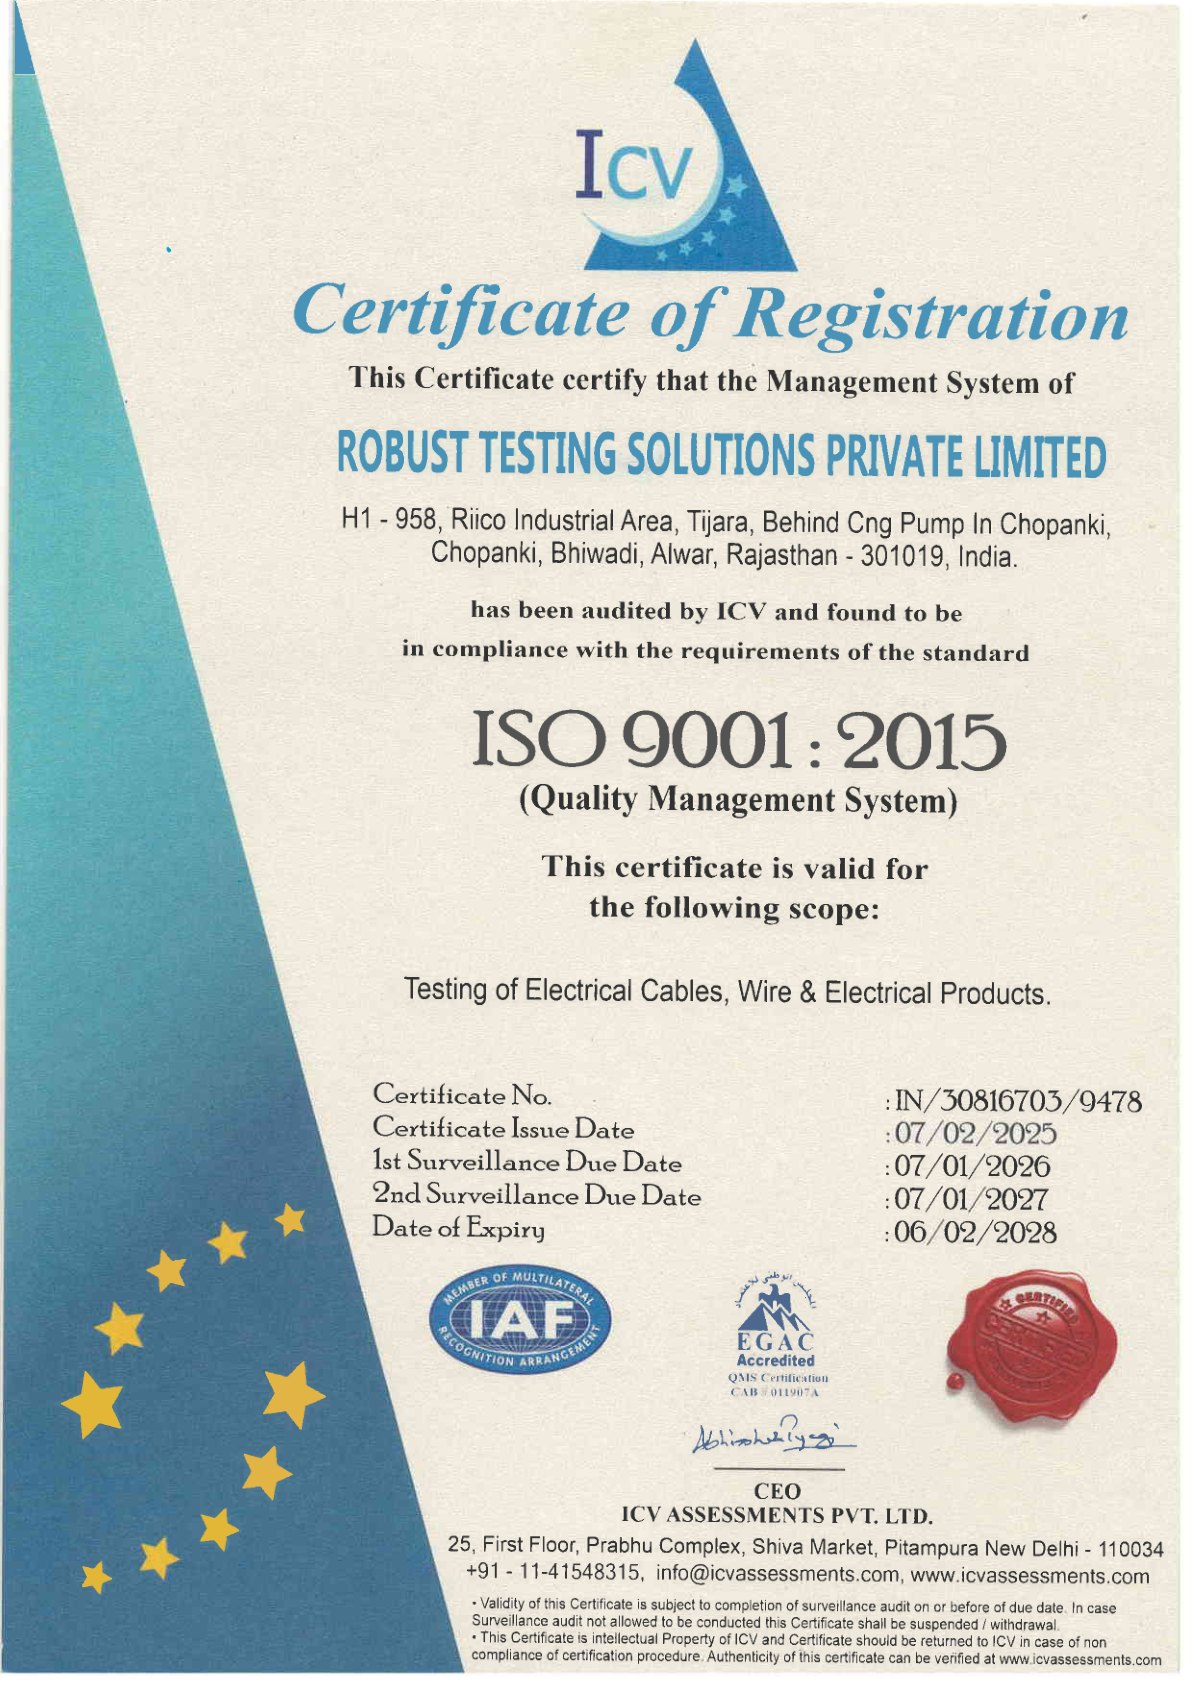
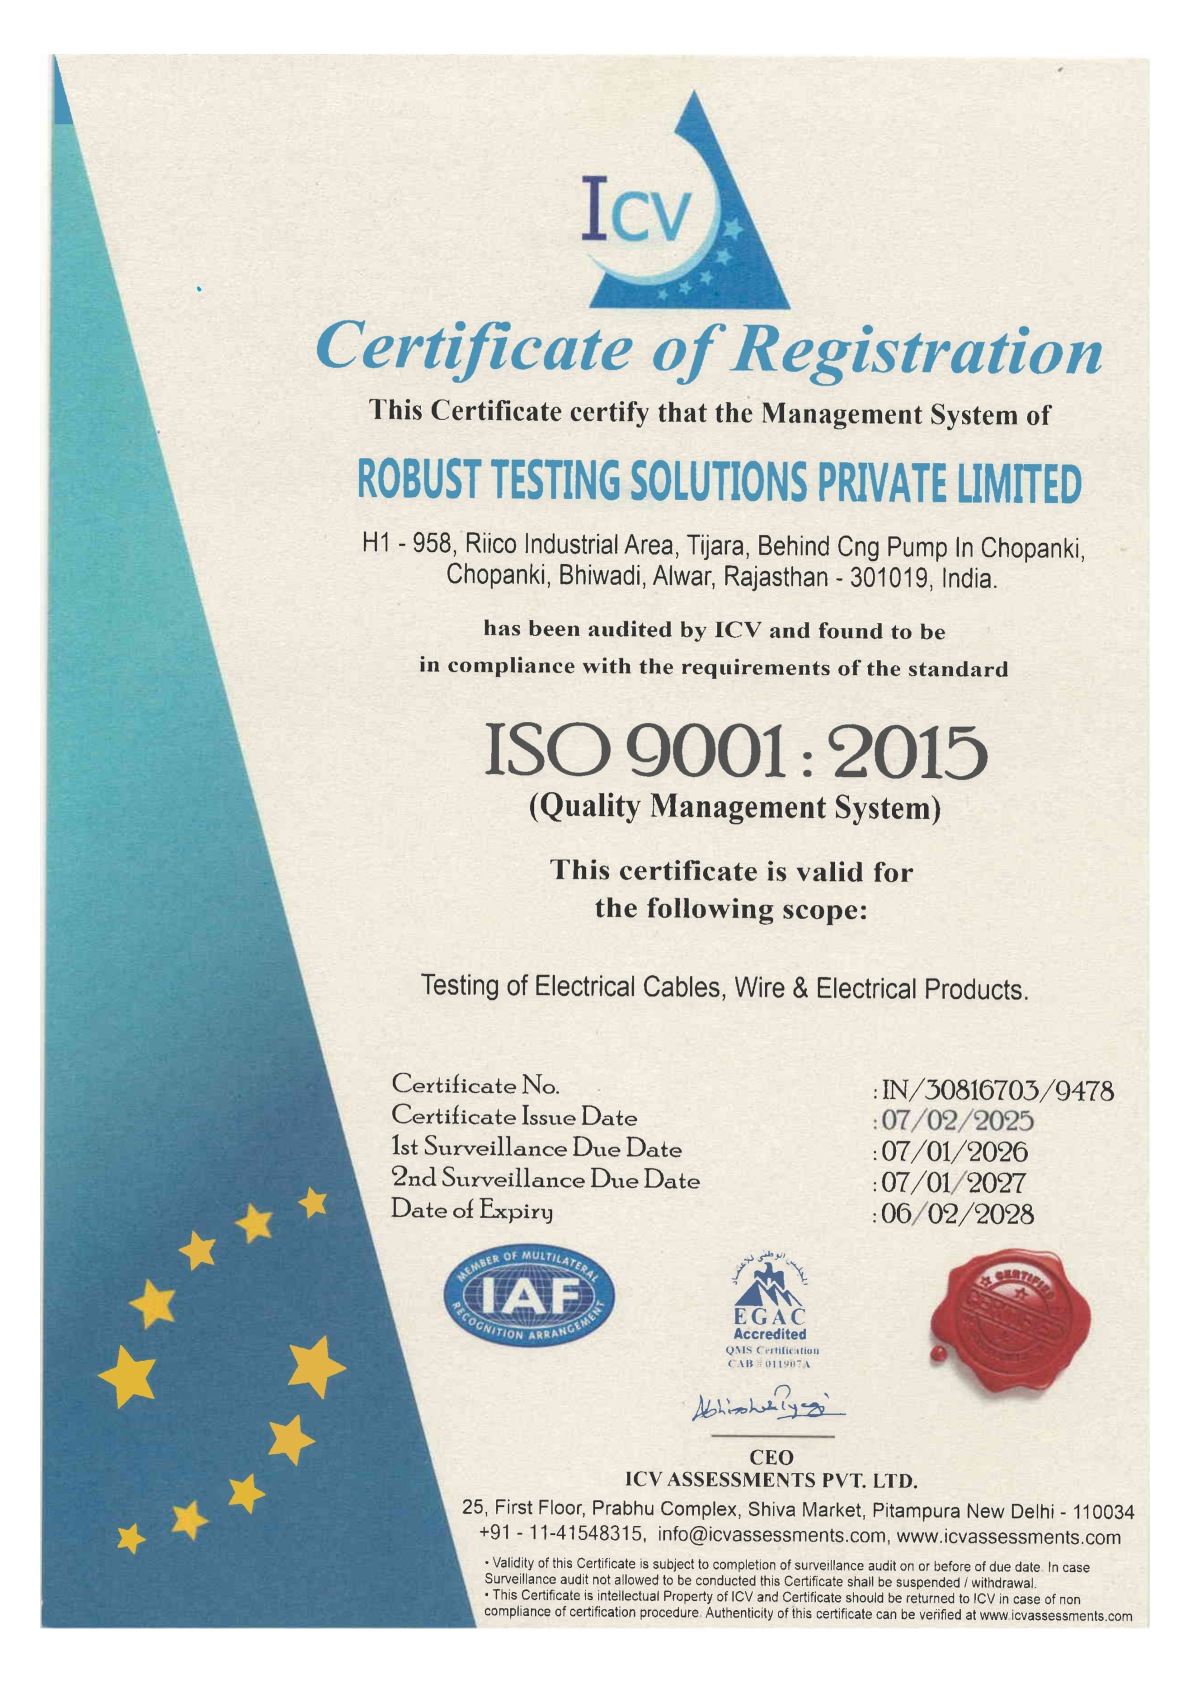
fix(certs): upright ISO and BIS portrait previews

Changed region(s): [[0.0, 0.0, 0.995, 1.0]]

diff --git a/css/styles.css b/css/styles.css
@@ -407,8 +407,8 @@ body.nav-open { overflow: hidden; }
 .cert:hover, .cert:focus-visible { transform: translateY(-4px); box-shadow: var(--shadow-md); border-color: var(--gold); }
 .cert__frame { aspect-ratio: 3/4; border-radius: 10px; margin-bottom: 0.7rem; position: relative; overflow: hidden; background: linear-gradient(180deg, #fbfdff, #eef4fb); border: 1px solid var(--line-soft); display: grid; place-items: center; color: var(--muted); font-size: 0.8rem; padding: 0.85rem; font-family: var(--fx-display); font-weight: 700; }
 .cert__frame::after { content: ""; position: absolute; inset: 0.5rem; border: 1px solid rgba(201,162,100,0.3); border-radius: 6px; pointer-events: none; }
-.cert__frame--img { background: #fff; }
-.cert__frame--img img { max-width: 82%; max-height: 82%; object-fit: contain; }
+.cert__frame--img { background: #fff; overflow: hidden; }
+.cert__frame--img img { max-width: 88%; max-height: 88%; width: auto; height: auto; object-fit: contain; object-position: center; }
 .cert .caption { font-weight: 700; font-size: 0.85rem; color: var(--navy); font-family: var(--fx-display); }
 
 /* Homepage certificates — GTL-style document row, Robust credentials only */
@@ -417,13 +417,13 @@ body.nav-open { overflow: hidden; }
 .certs__title { font-size: clamp(2rem, 4.2vw, 2.85rem); margin: 0 0 2.2rem; max-width: none; }
 .certs-row { display: flex; align-items: center; justify-content: center; gap: 0.35rem; width: 100%; }
 .certs-viewport { overflow: hidden; flex: 1 1 auto; width: 100%; min-width: 0; }
-.certs-track { display: flex; gap: 1.4rem; justify-content: flex-start; transition: transform 0.4s var(--ease); will-change: transform; }
-.certs-card { flex: 0 0 min(260px, 78vw); width: min(260px, 78vw); background: transparent; border: 0; padding: 0; cursor: pointer; font: inherit; color: inherit; text-align: center; }
-.certs-card__frame { display: block; aspect-ratio: 3 / 4; background: #fff; border: 1px solid #d5deea; box-shadow: 0 10px 28px rgba(11, 25, 48, 0.08); padding: 0.55rem; }
-.certs-sheet { display: flex; flex-direction: column; align-items: center; justify-content: center; gap: 0.55rem; width: 100%; height: 100%; padding: 0.85rem 0.7rem; border: 1px solid rgba(201, 162, 100, 0.45); background: linear-gradient(180deg, #fff, #f7fafd); }
+.certs-track { display: flex; gap: 1.2rem; justify-content: flex-start; transition: transform 0.4s var(--ease); will-change: transform; }
+.certs-card { flex: 0 0 min(240px, 78vw); width: min(240px, 78vw); min-width: 0; background: transparent; border: 0; padding: 0; cursor: pointer; font: inherit; color: inherit; text-align: center; }
+.certs-card__frame { display: block; aspect-ratio: 3 / 4; background: #fff; border: 1px solid #d5deea; box-shadow: 0 10px 28px rgba(11, 25, 48, 0.08); padding: 0.5rem; overflow: hidden; }
+.certs-sheet { display: flex; flex-direction: column; align-items: center; justify-content: center; gap: 0.55rem; width: 100%; height: 100%; min-width: 0; min-height: 0; padding: 0.85rem 0.7rem; border: 1px solid rgba(201, 162, 100, 0.45); background: linear-gradient(180deg, #fff, #f7fafd); }
 .certs-sheet img { width: auto; height: auto; max-width: 72%; max-height: 48%; object-fit: contain; }
-.certs-sheet--photo { padding: 0.35rem; }
-.certs-sheet--photo img { max-width: 100%; max-height: 100%; width: 100%; height: 100%; object-fit: contain; }
+.certs-sheet--photo { padding: 0.28rem; background: #fff; overflow: hidden; }
+.certs-sheet--photo img { max-width: 100%; max-height: 100%; width: 100%; height: 100%; min-width: 0; min-height: 0; object-fit: contain; object-position: center; }
 .certs-sheet__kicker { font-size: 0.62rem; letter-spacing: 0.18em; text-transform: uppercase; color: var(--gold-deep); font-weight: 700; font-family: var(--fx-display); }
 .certs-sheet__iso { width: 3.4rem; height: 3.4rem; border-radius: 50%; border: 2px solid var(--blue); color: var(--blue); display: grid; place-items: center; font-family: var(--fx-display); font-weight: 800; font-size: 0.82rem; }
 .certs-sheet strong { color: var(--navy); font-family: var(--fx-display); font-size: 0.98rem; line-height: 1.2; }
@@ -620,7 +620,6 @@ a.logo-slot { color: inherit; text-decoration: none; }
   .grid-certs { grid-template-columns: repeat(5, 1fr); }
   .footer-grid { grid-template-columns: 1fr 1fr; }
   .logo-slot { flex-basis: 168px; width: 168px; }
-  .certs-card { flex-basis: 260px; width: 260px; }
 }
 @media (min-width: 900px) {
   .nav-item:has(.mega) { position: static; }
@@ -674,7 +673,8 @@ a.logo-slot { color: inherit; text-decoration: none; }
   .split--reverse .media-frame { order: 2; }
   .grid-2, .form-layout, .witness-lanes, .showcase { grid-template-columns: 1fr 1fr; }
   .grid-3, .process { grid-template-columns: repeat(3, 1fr); }
-  .certs-card { flex-basis: 300px; width: 300px; }
+  .certs-track { width: 100%; justify-content: center; gap: 1rem; }
+  .certs-card { flex: 1 1 0; width: auto; max-width: 230px; min-width: 0; }
   .grid-4, .grid-families { grid-template-columns: repeat(2, 1fr); }
   .scope-spectrum { grid-template-columns: repeat(5, 1fr); }
   .mega__cols { grid-template-columns: repeat(3, minmax(0, 1fr)); }
@@ -688,6 +688,7 @@ a.logo-slot { color: inherit; text-decoration: none; }
   .nav { gap: 1.45rem; }
   .nav-item > a { font-size: 0.9rem; }
   .header-tools .header-cta { padding: 0.78rem 1.45rem; font-size: 0.9rem; }
+  .certs-card { max-width: 240px; }
   .grid-4 { grid-template-columns: repeat(4, 1fr); }
   .grid-families { grid-template-columns: repeat(5, minmax(0, 1fr)); }
   .process { grid-template-columns: repeat(5, 1fr); }

diff --git a/js/main.js b/js/main.js
@@ -172,7 +172,7 @@
       const g = gap();
       track.style.transform = `translateX(${-(index * (cardW + g))}px)`;
       dots.forEach((d, i) => d.classList.toggle("is-active", i === index));
-      const sliding = n > 1;
+      const sliding = maxIndex() > 0;
       if (prevBtn) prevBtn.hidden = !sliding;
       if (nextBtn) nextBtn.hidden = !sliding;
       if (dotsWrap) dotsWrap.hidden = !sliding;
